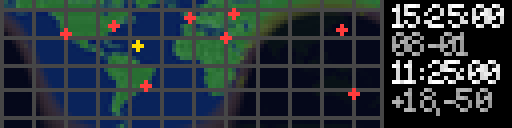
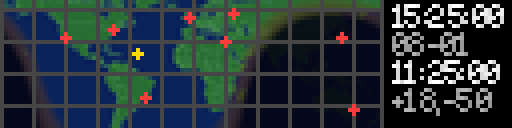
fix(geochron): bias wide_sidebar latitude band toward the north
Crop -50..+70 instead of -70..+70: still covers Sydney (-33.87) and
Rio (-22.91) with margin while trimming the mostly-empty Southern
Ocean/Antarctica below them. The 120-degree span also matches
typical wide_sidebar map aspect ratios better, reducing vertical
stretching from the crop->resize step.

Regenerated previews and golden images for 128x32/256x32.

diff --git a/plugins/geochron/geochron_renderer.py b/plugins/geochron/geochron_renderer.py
@@ -37,28 +37,31 @@ def _layout(dw, dh, map_center_lon=0.0):
         sidebar_w = max(32, int(dw * 0.22))
         map_w = dw - sidebar_w
         map_h = dh
-        # Fixed +-70 degree latitude band: covers all default cities (max
-        # |lat| is Moscow at 55.75) plus the rest of Canada, Alaska,
-        # Scandinavia, and Iceland, while excluding only the largely empty
-        # high-Arctic/Antarctic regions. The aspect-based formula this
-        # replaced always floored to 30 degrees for wide_sidebar's aspect
-        # range (>=3.0), hiding most of North America, Europe, and northern
-        # Asia.
-        lat_half = 70.0
+        # Asymmetric latitude band, biased toward the northern hemisphere:
+        # +70 covers Moscow (55.75) plus the rest of Canada, Alaska,
+        # Scandinavia, and Iceland; -50 still covers Sydney (-33.87) and Rio
+        # (-22.91) with margin while cropping out the mostly-empty Southern
+        # Ocean and Antarctica. The resulting 120-degree span also closely
+        # matches typical wide_sidebar map aspect ratios, reducing vertical
+        # stretching from the crop->resize step.
+        lat_min = -50.0
+        lat_max = 70.0
         lon_extent = 360.0
         lon_center = 0.0
     elif aspect >= 1.5:
         mode = "near_bleed"
         sidebar_w = 0
         map_w, map_h = dw, dh
-        lat_half = 90.0
+        lat_min = -90.0
+        lat_max = 90.0
         lon_extent = 360.0
         lon_center = 0.0
     else:
         mode = "square_tall"
         sidebar_w = 0
         map_w, map_h = dw, dh
-        lat_half = 90.0
+        lat_min = -90.0
+        lat_max = 90.0
         lon_extent = max(90.0, min(360.0, 180.0 * aspect))
         lon_center = map_center_lon
 
@@ -74,8 +77,8 @@ def _layout(dw, dh, map_center_lon=0.0):
         "sidebar_x": map_w if sidebar_w else None,
         "lon_min": lon_center - lon_extent / 2.0,
         "lon_max": lon_center + lon_extent / 2.0,
-        "lat_min": -lat_half,
-        "lat_max": lat_half,
+        "lat_min": lat_min,
+        "lat_max": lat_max,
     }
 
 
